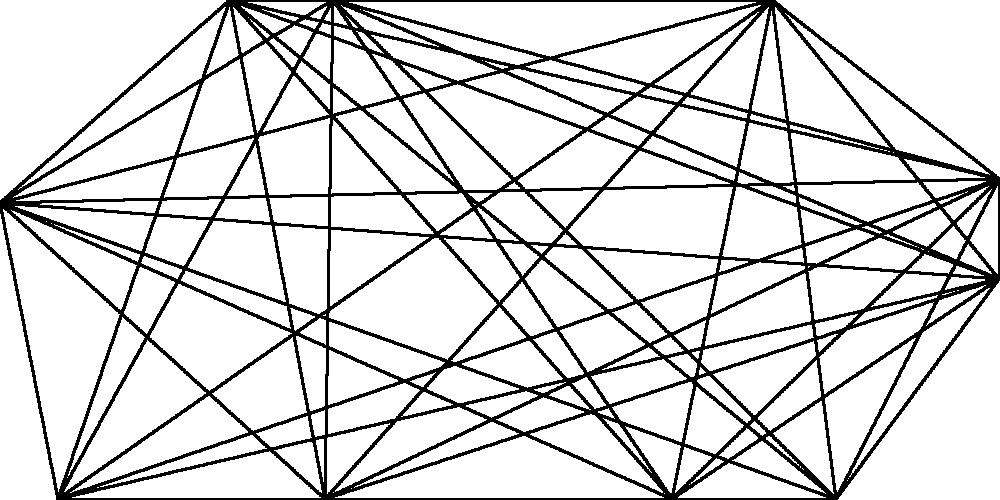
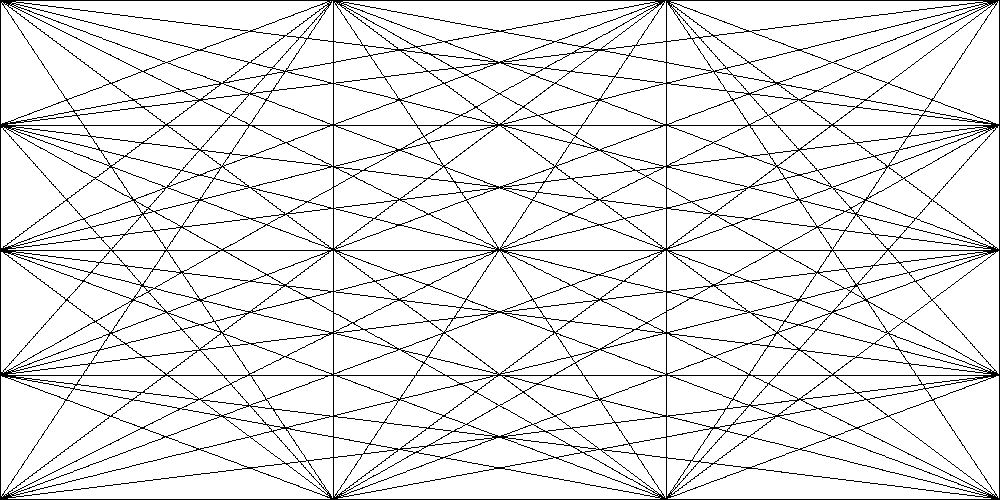
d4 lookin clean, aslo got rid of d1 tests

diff --git a/d4.py b/d4.py
@@ -32,6 +32,19 @@ def random_edge_points(n, w, h):
         points[i] = convert_to_point(points[i], w, h)
     return points
 
+def r_sym_edge_points(w, h):
+    max = 10
+    points = [(0,0), (0,h-1), (w-1, h-1), (w-1,0)]
+    hor = randint(0, int(float(w) / (w + h) * 10))
+    ver = randint(0, int(float(h) / (w + h) * 10))
+    # hor = 1
+    # ver = 12
+    for i in range(1, hor + 1):
+        points += [(w / (hor + 1) * i, 0), (w / (hor + 1) * i, h - 1)]
+    for i in range(1, ver + 1):
+        points += [(0, h / (ver + 1) * i), (w - 1, h / (ver + 1) * i)]
+    return points
+
 def connect_points(points):
     lines = []
     for j in range(len(points)):
@@ -60,12 +73,12 @@ h = 500
 img = Image.new("RGBA", (w, h), "white")
 pxs = img.load()
 
-points = random_edge_points(10, w, h)
+points = r_sym_edge_points(w, h)
 # lines = connect_points(points)
 # for l in lines:
 #     l.draw(pxs, thickness = 2)
 for i in range(len(points)):
     for j in range(len(points)):
-        Line_Seg(points[i], points[j]).draw(pxs, dems = (w, h), thickness = 1)
+        Line_Seg(points[i], points[j]).draw(pxs, dems = (w, h), thickness = 0)
 
 img.save("test.png", "PNG")

diff --git a/testing.py b/testing.py
@@ -1,0 +1,2 @@
+x = 1
+print 2x
